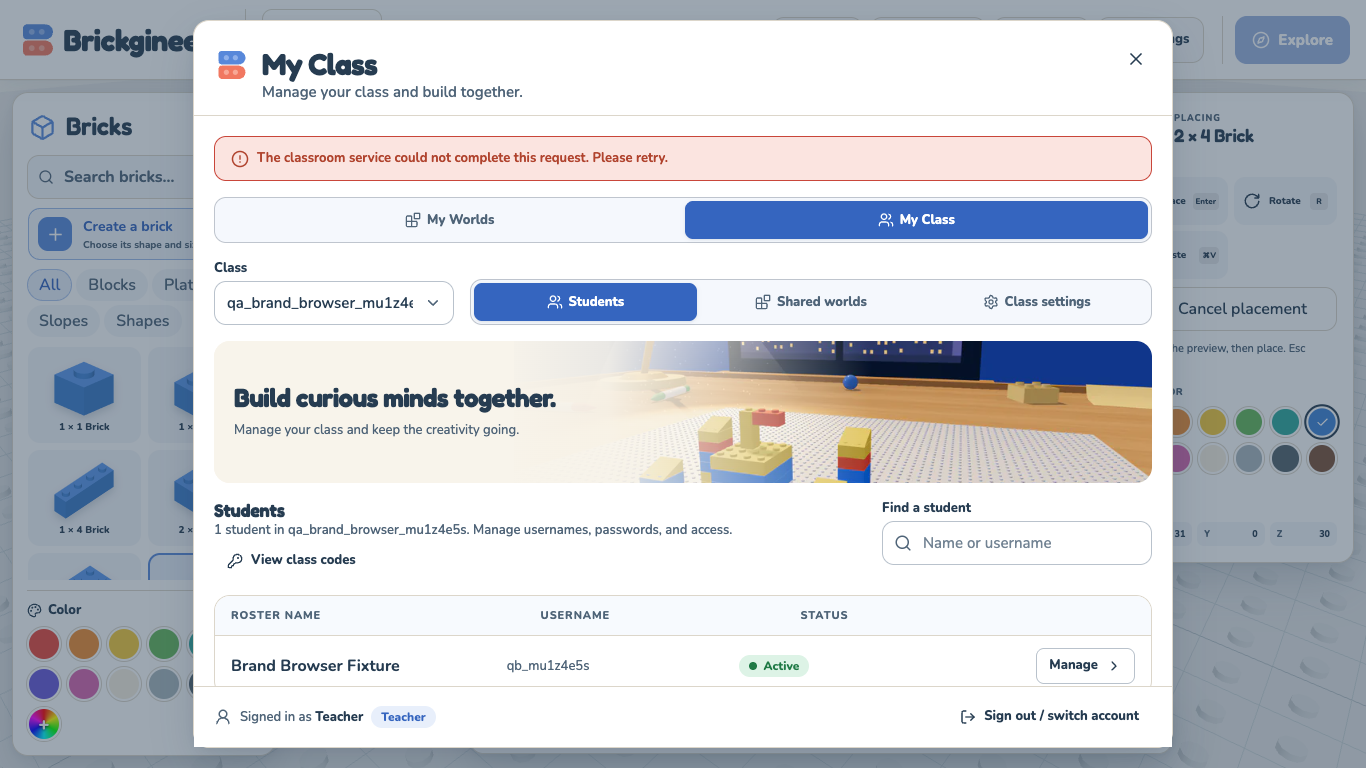
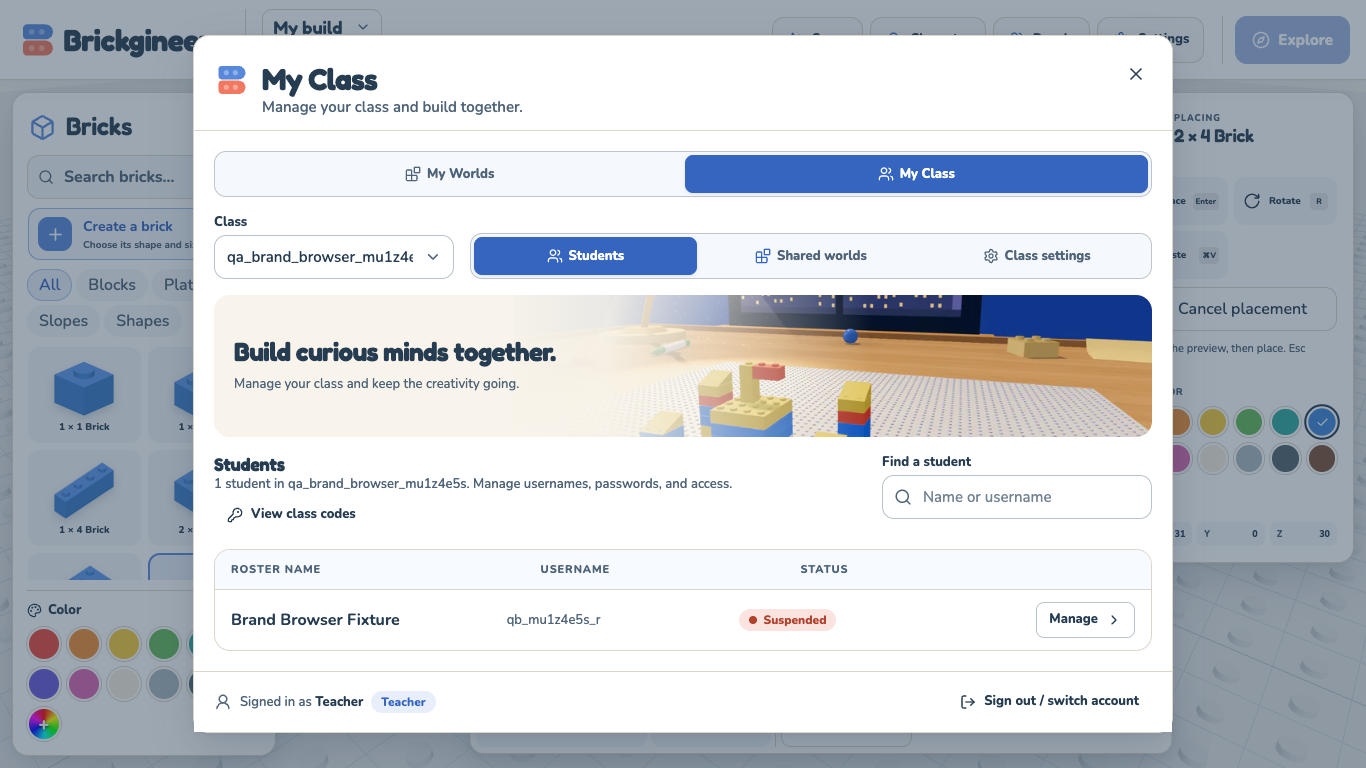
Verify healthy hosted teacher surfaces after query batching fix

diff --git a/docs/brand/qa/codex/accounts/README.md b/docs/brand/qa/codex/accounts/README.md
@@ -12,9 +12,9 @@ Captured 2026-09-15 01:16 UTC against local candidate UI at `http://127.0.0.1:52
 - Temporary sign-in requires choosing a new password. The saved world remains owned by the same student and its document is unchanged after recovery.
 - Nine final scoped checks passed. The synthetic student was suspended and its class enrollment/collaboration closed afterward.
 
-## Scope and open finding
+## Scope and resolved finding
 
-The teacher's GET `/classroom/worlds` returned 500 at 24 classes. Root delegated a worker batching fix. `results.json` records the failure alongside the successful scoped checks; this evidence **does not certify that endpoint or release readiness**. The frontend now retains successfully loaded class controls while explicitly showing the world error (commit `fe02a1b`, 73 ClassroomPanel tests passed). Teacher captures can include this genuine error state. Fresh healthy captures should supersede those once the worker fix is deployed to staging.
+The teacher's GET `/classroom/worlds` returned 500 at 24 classes. Root delegated a worker batching fix. `results.json` records the failure alongside the successful scoped checks; this evidence **does not certify that endpoint or release readiness**. The frontend now retains successfully loaded class controls while explicitly showing the world error (commit `fe02a1b`, 73 ClassroomPanel tests passed). Teacher captures can include this genuine error state. Fresh healthy captures superseded those teacher images at 01:19 UTC after staging worker `01b230d6-11c1-4a9b-a0ab-3b7828db83e9` (source `dfe3496`) was deployed. Actual browser teacher login, classes, worlds, and synthetic roster requests all returned 200 at 24 classes, with no error alert. See `teacher-world-list-recheck.json`. This final recheck did not create or modify any classes, students, or worlds.
 
 Earlier attempt reports preserve harness corrections (native option attachment and import confirmation) and the endpoint failure discovery. The first empty synthetic class was explicitly closed by its unique name; all other created synthetic classes are also closed and any synthetic students suspended.
 
